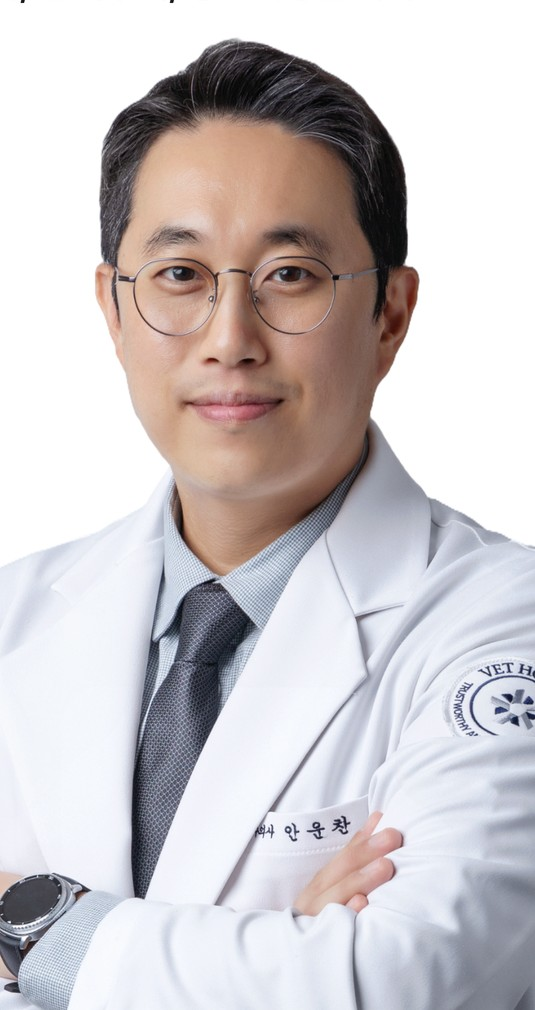
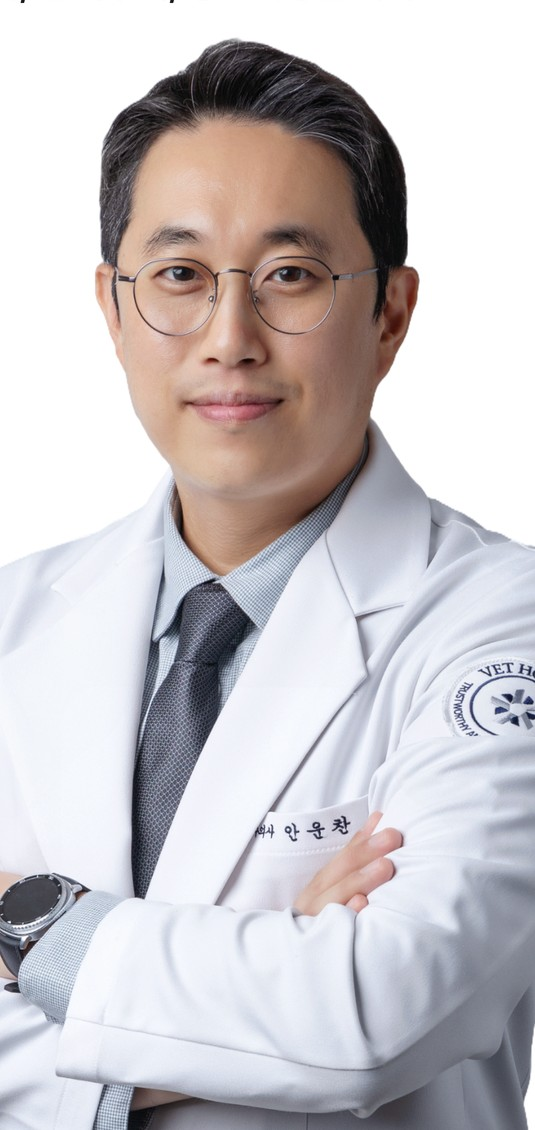
대표 사진 비율 재조정 — 얼굴 비중 추가 축소
원본 카드는 어깨가 좌우로 잘린 세로 사진이라 가로 확장이 불가능하다.
(x<545는 약력 텍스트, x>1080은 이미지 끝, y>1050부터 코트가 양끝에 닿음)
따라서 세로로 더 담고 표시 크기를 줄이는 방식으로 조정.

- 크롭 (545,490)-(1080,1620) → 535x1130, 팔짱 자세 전체 포함
  얼굴 비중 74% → 49% → 44%
- 히어로 사진 표시 폭 상한 282px (모바일 250px), 가운데 정렬
- 히어로 그리드 1.35fr .85fr → 1.6fr .72fr, 본문 열에 여유 확대
- 캡션 축약 및 자간 조정 ('센터장' 한 단어만 넘어가던 줄바꿈 해소)

diff --git a/public/index.html b/public/index.html
@@ -19,7 +19,7 @@
 <meta property="og:description" content="개와 고양이의 혈액투석·신대체요법(RRT)과 응급·중환자 진료. 서울 강남구 도산대로 213 · 365일 24시간.">
 <meta property="og:image" content="https://www.ahnwoonchan.com/profile.jpg">
 <meta property="og:image:width" content="535">
-<meta property="og:image:height" content="1010">
+<meta property="og:image:height" content="1130">
 <meta name="twitter:card" content="summary_large_image">
 
 <!-- 네이버 서치어드바이저 사이트 소유확인 -->
@@ -140,7 +140,7 @@ header.stuck{border-bottom-color:var(--line)}
     radial-gradient(680px 420px at 78% 8%, color-mix(in srgb,var(--brand) 15%,transparent), transparent 68%),
     radial-gradient(520px 340px at 8% 96%, color-mix(in srgb,var(--accent) 9%,transparent), transparent 70%);
 }
-.hero-grid{position:relative;z-index:1;display:grid;grid-template-columns:1.35fr .85fr;gap:56px;align-items:center}
+.hero-grid{position:relative;z-index:1;display:grid;grid-template-columns:1.6fr .72fr;gap:56px;align-items:center}
 @media(max-width:900px){.hero-grid{grid-template-columns:1fr;gap:40px}}
 .tag{
   display:inline-flex;align-items:center;gap:8px;font-size:.78rem;font-weight:600;
@@ -190,15 +190,15 @@ header.stuck{border-bottom-color:var(--line)}
   position:relative;margin:0;border-radius:20px;overflow:hidden;
   background:#fff;border:1px solid var(--line);box-shadow:var(--shadow);
 }
-.portrait img{width:100%;height:auto;aspect-ratio:535/1010;object-fit:cover;object-position:center top}
-@media(max-width:900px){.portrait{max-width:290px;margin:0 auto}}
+.portrait img{width:100%;height:auto;aspect-ratio:535/1130;object-fit:cover;object-position:center top}
+@media(max-width:900px){.portrait{max-width:250px}}
 .portrait figcaption{
   position:absolute;left:0;right:0;bottom:0;padding:64px 20px 18px;
   background:linear-gradient(to top,rgba(8,26,24,.92) 20%,rgba(8,26,24,.6) 60%,rgba(8,26,24,0));
   color:#fff;font-size:.98rem;font-weight:700;letter-spacing:-.02em;line-height:1.4;
   text-shadow:0 1px 3px rgba(0,0,0,.35);
 }
-.portrait figcaption span{display:block;font-weight:500;font-size:.76rem;opacity:.9;margin-top:4px}
+.portrait figcaption span{display:block;font-weight:500;font-size:.72rem;opacity:.9;margin-top:4px;letter-spacing:-.02em}
 
 /* ---------- stats ---------- */
 .stats{background:var(--bg-soft);border-bottom:1px solid var(--line);padding:0}
@@ -560,7 +560,8 @@ h2{font-size:clamp(1.72rem,3.6vw,2.3rem);line-height:1.22}
 .creds li b{color:var(--brand);font-weight:700}
 
 /* 인물 사진 */
-.portrait{border-radius:22px;box-shadow:0 2px 4px rgba(16,40,36,.06),0 24px 48px -24px rgba(16,40,36,.4)}
+.portrait{border-radius:22px;box-shadow:0 2px 4px rgba(16,40,36,.06),0 24px 48px -24px rgba(16,40,36,.4);
+  max-width:min(100%,282px);margin-left:auto;margin-right:auto}
 .portrait::after{
   content:"";position:absolute;inset:0;border-radius:22px;pointer-events:none;
   box-shadow:inset 0 0 0 1px color-mix(in srgb,var(--brand) 22%,transparent);
@@ -708,8 +709,8 @@ h2{font-size:clamp(1.72rem,3.6vw,2.3rem);line-height:1.22}
       </div>
       <div>
         <figure class="portrait">
-          <img src="profile.jpg" alt="안운찬 수의사" width="535" height="1010">
-          <figcaption>안운찬 <span>내과원장 · 혈액투석/신장비뇨기 및 응급중환자 센터장</span></figcaption>
+          <img src="profile.jpg" alt="안운찬 수의사" width="535" height="1130">
+          <figcaption>안운찬 <span>내과원장 · 혈액투석 / 신장비뇨기센터장</span></figcaption>
         </figure>
       </div>
     </div>
